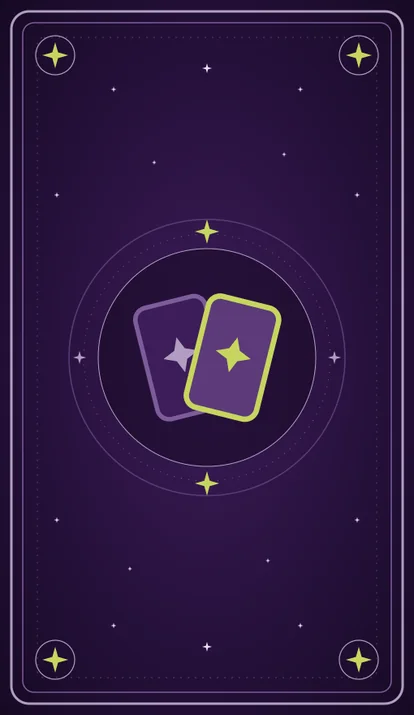
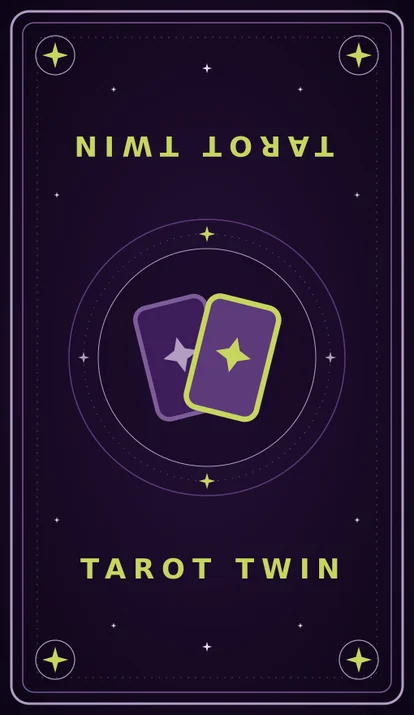
Card back: add Tarot Twin text, darker color, centered ring stars; center tap-to-reveal hints
Claude-Session: https://claude.ai/code/session_01C5qAqDtxviUBHL3PXVuTYL

diff --git a/src/components/TarotCardFallback.tsx b/src/components/TarotCardFallback.tsx
@@ -12,8 +12,8 @@ function CardBack() {
     <svg className="card-back-art" viewBox="0 0 200 300" aria-hidden="true" preserveAspectRatio="xMidYMid slice">
       <defs>
         <radialGradient id="cb-bg" cx="50%" cy="50%" r="70%">
-          <stop offset="0" stopColor="#3d1c59" />
-          <stop offset="1" stopColor="#1d0d2e" />
+          <stop offset="0" stopColor="#261038" />
+          <stop offset="1" stopColor="#0d0517" />
         </radialGradient>
       </defs>
       <rect width="200" height="300" fill="url(#cb-bg)" />
@@ -24,9 +24,13 @@ function CardBack() {
         <path key={i} d="M-2 -62 L0 -80 L2 -62 Z" fill="#c6d65f" opacity="0.7" transform={`translate(100 150) rotate(${i * 22.5})`} />
       ))}
       <path d="M112 112 A40 40 0 1 0 112 188 A32 32 0 1 1 112 112 Z" fill="#c6d65f" />
-      {[[135, 120, 5], [60, 100, 3], [70, 195, 4], [140, 190, 3], [100, 60, 4], [100, 240, 4], [45, 150, 2.5]].map(([x, y, s], i) => (
+      {[[135, 120, 5], [60, 100, 3], [70, 195, 4], [140, 190, 3], [45, 150, 2.5], [155, 150, 2.5]].map(([x, y, s], i) => (
         <path key={i} d={`M${x} ${y - s * 2} L${x + s * 0.5} ${y - s * 0.5} L${x + s * 2} ${y} L${x + s * 0.5} ${y + s * 0.5} L${x} ${y + s * 2} L${x - s * 0.5} ${y + s * 0.5} L${x - s * 2} ${y} L${x - s * 0.5} ${y - s * 0.5} Z`} fill="#eadef4" opacity="0.9" />
       ))}
+      <g fill="#c6d65f" fontFamily="system-ui, Helvetica, Arial, sans-serif" fontWeight="bold" fontSize="15" letterSpacing="3" textAnchor="middle">
+        <text x="101.5" y="255">TAROT TWIN</text>
+        <text x="101.5" y="255" transform="rotate(180 100 150)">TAROT TWIN</text>
+      </g>
       <path d="M25 30 h20 M155 30 h20 M25 270 h20 M155 270 h20" stroke="#c6d65f" strokeWidth="1.2" />
     </svg>
   )

diff --git a/src/pages/TwinReading.tsx b/src/pages/TwinReading.tsx
@@ -63,7 +63,7 @@ function Reading({ friendId, friendName, myId, myName }: { friendId: string; fri
           </div>
         ))}
       </div>
-      {step < 3 && <p className="muted">Tap to reveal: {['you', friendName, 'the bridge'][step]}</p>}
+      {step < 3 && <p className="muted" style={{ textAlign: 'center' }}>Tap to reveal: {['you', friendName, 'the bridge'][step]}</p>}
       {step === 3 && (
         <DignityChips mine={r.mine} theirs={r.theirs} bridge={r.bridge} youFriend={r.youFriend}
           youBridge={r.youBridge} friendBridge={r.friendBridge} tone={r.tone}

diff --git a/src/pages/Home.tsx b/src/pages/Home.tsx
@@ -39,7 +39,7 @@ export default function Home() {
           onInspect={() => setSheet(card)}
         />
       </div>
-      {!isRevealed && <p className="muted">Tap the card to reveal</p>}
+      {!isRevealed && <p className="muted" style={{ textAlign: 'center' }}>Tap the card to reveal</p>}
       <Countdown onZero={onZero} hidden={!isRevealed} />
       <CardInspect card={sheet} onClose={() => setSheet(null)} />
     </main>
